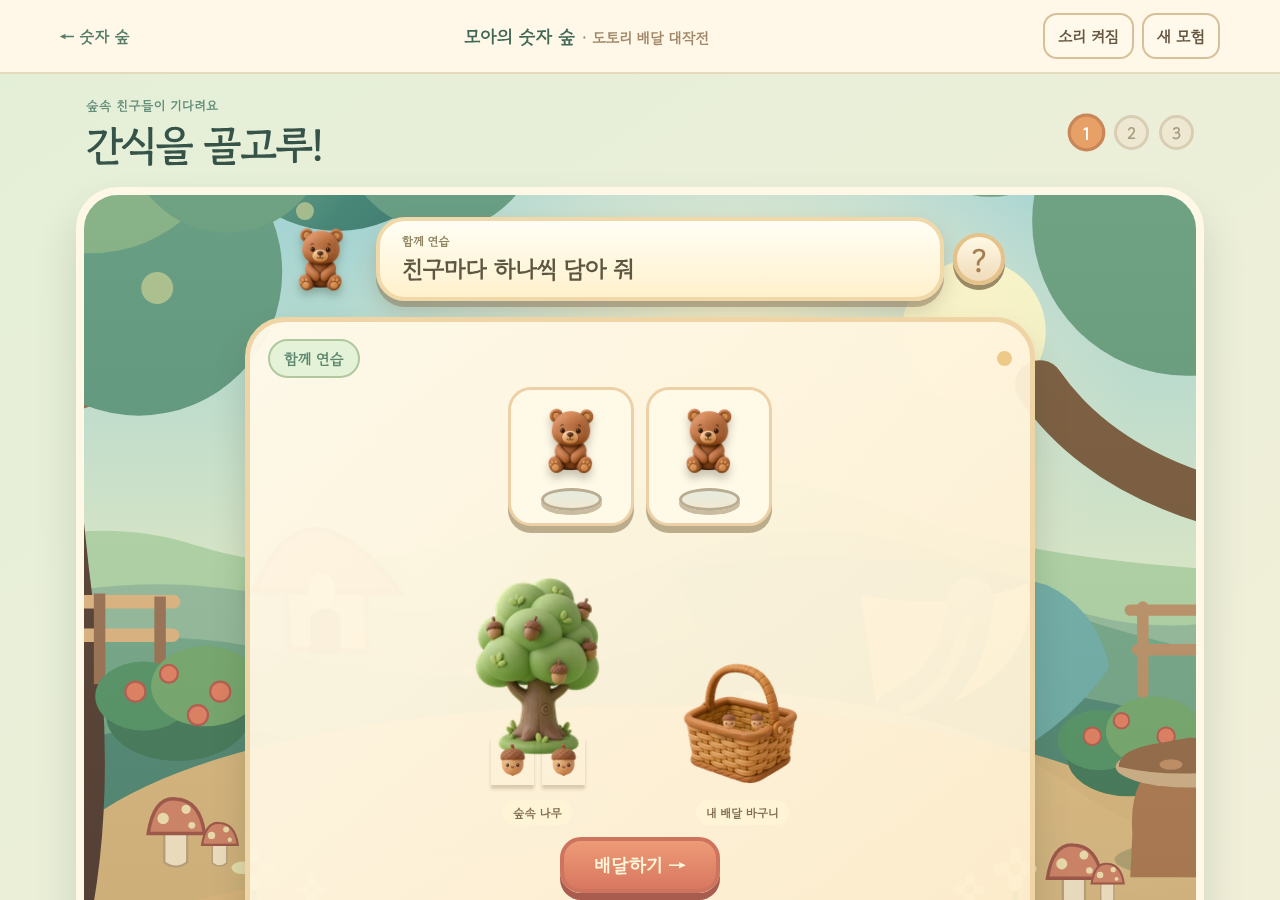
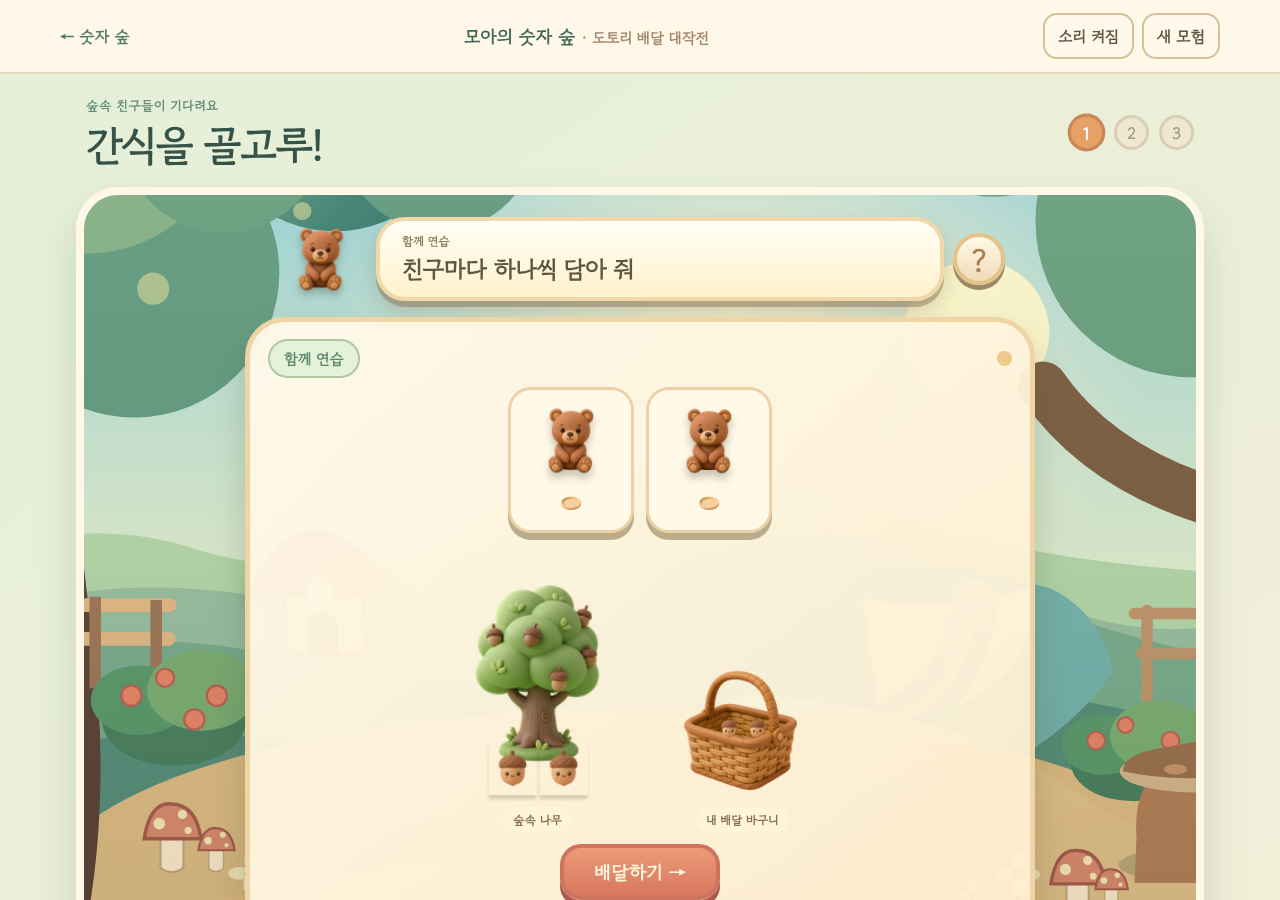
도토리 배달 대작전: 전체 동물 roster 확장 + 게임감 개선 (사용자 승인 후 2차)
1차 체크포인트(나무·도토리·바구니·곰) 승인 후 "나머지들 싹다 만들어 /
학습지 말고 게임처럼 느껴지게" 지시에 따른 추가 작업:

- characters/rabbit_*, fox_*, frog_*, bird_* (각 waiting/happy) 추가
  — 실제 mission.js 템플릿이 쓰는 5종 동물 전부 완료 (squirrel은 코드에서
  미사용이라 제외)
- objects/plate_empty.png — 기존 평면 CSS .dish를 대체
- mission.js: friend()를 모든 동물에 대해 PNG 사용하도록 단순화(로직 변경 없음)
- mission.css: 게임감 개선 — 클릭 시 눌림 피드백, 아이템 등장 팝인,
  가이드 곰/대기 친구 미세한 흔들림, 성공·챕터완료 카드 팝인, 챕터 완료
  축하 연출을 기존 평면 점선 원에서 글로우+꽃+색종이(confetti) 터짐으로
  교체. 상태/점수/타이머 로직 무변경, 기존 prefers-reduced-motion
  전역규칙이 새 애니메이션도 덮음.
- style-guide.md / asset-manifest.json / qa/test-results.md / previews/
  갱신 — 여전히 미완료인 항목(배경 재제작, 미구현 기능 소품, UI 아이콘,
  0~10 전체 수량 실측, 드래그 제스처)은 숨기지 않고 그대로 기록.

PC/태블릿/모바일 전 구간 재스크린샷, JS 에러 없음 확인. main 미병합,
공개 배포 없음.

Claude-Session: https://claude.ai/code/session_013RwCLG4nBVpXDLti5Q8fYw

diff --git a/math-garden/mission.css b/math-garden/mission.css
@@ -1,6 +1,6 @@
 @import url('https://fonts.googleapis.com/css2?family=Gowun+Dodum&display=swap');
 :root{--ink:#355349;--paper:#fff7df;--leaf:#5b9b79;--cream:#ffefc9;--orange:#e98e65;--brown:#926947;--line:#ead1a2}
-*{box-sizing:border-box}html{scroll-behavior:smooth}body{margin:0;background:linear-gradient(145deg,#e4efd8,#f5efd9);font-family:'Gowun Dodum','Pretendard',system-ui,sans-serif;color:var(--ink)}button,a{font:inherit}button{cursor:pointer;-webkit-tap-highlight-color:transparent;touch-action:manipulation}button:focus-visible,a:focus-visible{outline:4px solid #f9cd78;outline-offset:3px}.shell{min-height:100vh}.mast{min-height:74px;padding:12px max(17px,calc((100vw - 1160px)/2));background:#fff8e8;display:flex;align-items:center;justify-content:space-between;gap:14px;border-bottom:2px solid #e6dabd}.back{color:#557c69;text-decoration:none;font-weight:900;white-space:nowrap}.identity{font-size:18px;font-weight:1000;color:#416857}.identity span{font-size:15px;color:#a18667}.controls{display:flex;gap:8px}.controls button{border:2px solid #d8bf98;background:#fff9ec;color:#665640;padding:9px 13px;min-height:44px;border-radius:14px;font-weight:900}.main{max-width:1160px;margin:auto;padding:14px 16px 20px}.topline{display:flex;justify-content:space-between;align-items:center;gap:10px;padding:4px 10px 14px}.overline{font-size:13px;color:#638e79;font-weight:900;letter-spacing:.04em}.topline h1{font-size:clamp(28px,4.5vw,41px);line-height:1.2;letter-spacing:-.05em;margin:4px 0}.chapters{display:flex;gap:10px}.chapter-dot{width:35px;height:35px;border-radius:50%;background:#eee8d3;display:grid;place-items:center;color:#a79b80;font-weight:900;border:3px solid #d9ceb4}.chapter-dot.active{color:#fff;background:#e7a167;border-color:#ca8559;transform:scale(1.08)}.chapter-dot.completed{color:#fff;background:#7eb092;border-color:#609b7c}.stage{position:relative;isolation:isolate;overflow:hidden;min-height:625px;border-radius:42px;border:8px solid #fff8e7;box-shadow:0 11px 0 #bfcda9,0 25px 42px #395d4a30;background:#b7d6a5 url('./assets/forest-world.svg') center 52%/cover no-repeat}.scenery{position:absolute;inset:0;background:linear-gradient(#fff4cf14,#273e2620);pointer-events:none;z-index:0}.scenecontent{position:relative;z-index:1;padding:18px 18px 24px;max-width:1060px;margin:auto}.storybar{max-width:730px;margin:auto;display:flex;align-items:center;gap:9px}.story-character{flex:0 0 85px;height:92px;display:grid;place-items:center;filter:drop-shadow(0 5px 4px #3b4c3555)}.story-character svg,.story-character img{width:92px;height:92px;object-fit:contain}.story-cloud{flex:1;background:linear-gradient(#fffef5,#fff1cc);border:4px solid #f0d8a8;box-shadow:0 6px 0 #8a75587a,0 10px 20px #796b5247;border-radius:29px;padding:11px 22px;min-height:82px}.story-cloud small{display:block;font-size:12px;color:#8f825f;font-weight:800}.story-cloud p{font-size:clamp(17px,2.7vw,24px);font-weight:900;margin:2px 0 0;color:#5d5642;letter-spacing:-.03em}.look{width:52px;height:52px;border-radius:50%;border:4px solid #e4c28a;background:linear-gradient(#fff9e5,#f0dbb9);color:#a77e51;box-shadow:0 5px 0 #9b8a66;font-size:30px;font-weight:900}.play{max-width:940px;margin:12px auto 0;min-height:429px;display:grid;place-items:center}.btn{background:linear-gradient(#ed9b77,#d87760);border:4px solid #ce745e;box-shadow:0 7px 0 #a85c4d;color:#fff8dc;font-size:22px;font-weight:1000;border-radius:21px;padding:14px 27px;min-height:66px}.btn:active{transform:translateY(5px);box-shadow:0 2px 0 #a85c4d}.intro,.lesson,.quest,.success,.chapter-result{width:min(100%,790px);border-radius:40px;border:5px solid #efd5a6;background:linear-gradient(138deg,#fff9e9f7,#ffefcfed);box-shadow:0 11px 0 #9a926b,0 20px 32px #3e503438;text-align:center;padding:22px;min-height:374px;display:flex;flex-direction:column;align-items:center;justify-content:center;gap:14px}.intro-title{font-size:clamp(24px,4vw,34px);font-weight:1000}.intro p{margin:0 0 7px;color:#6d654e;font-size:18px}.intro-bag{display:flex;gap:12px;align-items:center;justify-content:center;width:205px;height:116px;border-bottom:35px solid #bf8c57;border-radius:0 0 75px 75px;box-shadow:0 12px 0 #8f6848;position:relative;padding:0 5px}.intro-bag .food{transform:scale(1.1)}.food{position:relative;display:inline-block;width:43px;height:48px;flex:0 0 43px;border-radius:49% 48% 44% 44%;background:radial-gradient(circle at 29% 28%,#f4c494,#c18a54 55%,#946239 96%);box-shadow:inset -5px -5px 0 #7a4c2830,0 5px 0 #7b5a3933;border:2px solid #aa784c}.food:before{content:'';position:absolute;top:-6px;left:3px;width:33px;height:17px;border-radius:54% 54% 27% 27%;background:repeating-linear-gradient(42deg,#715234 0 3px,#98724b 4px 7px);border:2px solid #715234}.food:after{content:'';position:absolute;top:-13px;left:20px;width:5px;height:10px;border-radius:6px;background:#715234}.food.berry{border-radius:50%;background:radial-gradient(circle at 29% 28%,#ffc6a8,#ef8770 55%,#c45b59);border-color:#c16865}.food.berry:before{width:16px;height:9px;left:27px;top:-7px;border:0;border-radius:100% 0;background:#7ba87a;transform:rotate(-17deg)}.food.berry:after{display:none}.food.mini{width:24px;height:27px;flex-basis:24px;box-shadow:0 2px 0 #7b5a392b}.food.mini:before{width:19px;height:10px;left:0;top:-4px}.food.mini:after{width:3px;height:6px;top:-8px;left:10px}.food.acorn{background:url('./assets/mission-v4/objects/acorn_single.png') center/contain no-repeat;border:0;box-shadow:0 4px 3px #5c431c38;border-radius:0}.food.acorn:before,.food.acorn:after{content:none}.forest-friend{width:95px;height:104px;filter:drop-shadow(0 5px 3px #5b554046);overflow:visible}.forest-friend.bear-photo{object-fit:contain;filter:drop-shadow(0 6px 4px #5b554055)}.demo-friends,.friends-line{display:flex;justify-content:center;align-items:end;flex-wrap:wrap;gap:12px}.demo-pair,.hungry-friend{min-width:105px;min-height:135px;padding:3px 10px 12px;display:flex;flex-direction:column;align-items:center;justify-content:flex-end;background:#fffae8;border-radius:23px;border:3px solid #edd0a6;box-shadow:0 7px 0 #bbad8c}.demo-pair .forest-friend,.hungry-friend .forest-friend{width:100px;height:95px}.match-slot{display:grid;place-items:center;min-width:47px;min-height:47px;background:#fff9e6;border-radius:15px;border:3px dashed #d2bea0}.match-slot.occupied{border-style:solid;background:#ddefd9;border-color:#85b394}.dish{height:23px;width:61px;background:linear-gradient(#e6ecde,#f1e8d2);border:3px solid #b9ac91;border-radius:55%;box-shadow:0 4px 0 #cabca0}.visual-equation{font-size:20px;font-weight:800;color:#826950}.lesson-foot{display:flex;align-items:center;gap:15px;flex-wrap:wrap;justify-content:center}.observation{background:#eef4e6;border:2px solid #b5d0b2;border-radius:100px;padding:10px 15px;font-size:14px;color:#558467}.one-to-one{display:flex;flex-direction:column;align-items:center;gap:7px}.matching-row{display:flex;gap:28px}.matching-row .match-slot{min-width:32px;min-height:32px}.lesson-lead{display:grid;gap:12px;justify-content:center}.compare-pair{display:flex;align-items:center;justify-content:center;gap:12px}.match-instruction{font-size:45px;color:#bc9b72}.quantity.pile{display:flex;flex-wrap:wrap;justify-content:center;gap:8px;max-width:190px;min-width:100px;padding:12px;background:#fffcf0;border:4px solid #edce98;border-radius:22px}.quest{padding:17px 18px;justify-content:space-between;gap:9px;max-width:830px}.quest-head{display:flex;justify-content:space-between;align-items:center;width:100%;gap:12px}.quest-chip{background:#e4f3d7;padding:7px 14px;border:2px solid #b0c7a0;border-radius:30px;font-size:15px;font-weight:900;color:#5d876f}.quest-pips{display:flex;gap:5px}.quest-pips i{display:block;width:15px;height:15px;border-radius:50%;background:#edca87}.quest-board{display:grid;place-items:center;gap:13px;min-height:215px;width:100%}.delivery-line{display:flex;justify-content:center;gap:25px;align-items:end;width:100%;flex-wrap:wrap}.supply,.delivery{position:relative;display:grid;justify-items:center;align-content:end;gap:4px;min-width:180px;min-height:140px}.supply-items{position:relative;width:100%;max-width:190px;aspect-ratio:149/210;margin:0 auto;padding:0;background:url('./assets/mission-v4/objects/acorn_tree.png') center top/contain no-repeat;border:0;border-radius:0}.supply-items .tree-pile{position:absolute;left:4%;right:4%;bottom:2%;display:flex;flex-wrap:wrap;justify-content:center;align-content:flex-end;gap:2px;max-height:40%}.interaction{background:transparent;border:0;min-width:49px;min-height:49px;display:grid;place-items:center;padding:3px;border-radius:14px}.interaction:focus-visible{outline:4px solid #ffce74}.interaction .food{transition:transform .18s}.interaction:hover .food{transform:translateY(-3px)}.supply-caption{font-size:12px;font-weight:800;color:#816d52;background:#fff4d6;padding:4px 10px;border-radius:20px;margin:3px}.packed-food{position:relative;width:100%;max-width:210px;aspect-ratio:199/178;margin:0 auto;padding:0;background:url('./assets/mission-v4/objects/basket_empty.png') center bottom/contain no-repeat;border:0;border-radius:0;box-shadow:none}.packed-food .basket-pile{position:absolute;left:25%;width:50%;top:45%;height:20%;display:flex;flex-wrap:wrap;justify-content:center;align-content:flex-end;gap:0}.packed-food .interaction{min-width:28px;min-height:32px;padding:2px}.basket-body{display:none}.quest-actions{display:flex;justify-content:center}.quest-actions .btn{min-height:56px;padding:9px 30px;font-size:19px}.feedback-slot{min-height:23px;width:100%;font-size:15px}.feedback-error{background:#fff2dd;color:#91664a;border:2px solid #f2d4a2;border-radius:20px;padding:9px;font-weight:900;max-width:430px;margin:auto}.scaffold{display:grid;place-items:center;gap:9px;background:#edf5df;border:3px solid #bad4ae;border-radius:21px;padding:10px;margin:5px auto;max-width:550px}.scaffold p{margin:2px;font-size:14px}.scaffold .one-to-one{max-height:120px;overflow:auto}.help-model{display:flex;align-items:center;justify-content:center;flex-wrap:wrap;gap:10px}.help-model span{font-size:13px}.match-row{display:flex;gap:5px}.compare-path{display:flex;justify-content:center;gap:18px;align-items:center;flex-wrap:nowrap;width:100%}.compare-path .interaction{width:46%;min-height:150px;border:4px solid #c7a273;background:linear-gradient(#fff7d8,#ead4ae);box-shadow:0 8px 0 #ad9472;border-radius:27px;padding:16px}.path-stand{display:grid;place-items:center;min-width:100%;gap:7px}.fruit-pile{display:flex;flex-wrap:wrap;justify-content:center;gap:9px;max-width:250px;min-height:75px;align-items:center}.path-arch{height:10px;width:85%;background:#b8c79e;border-radius:55%}.make-layout{width:100%;display:grid;justify-items:center;gap:9px}.make-board{background:#fff7e0;padding:12px;border:5px solid #caa978;border-radius:24px;box-shadow:0 7px 0 #a38966;display:flex;flex-wrap:wrap;gap:7px;max-width:510px;justify-content:center}.make-board .match-slot{width:58px;height:58px}.quest .make-layout .delivery-line{gap:18px}.quest .make-layout .supply,.quest .make-layout .delivery{min-height:122px}.success,.chapter-result{min-height:364px}.success h2,.chapter-result h2{font-size:clamp(23px,4vw,33px);margin:0}.success p,.chapter-result p{font-size:17px;margin:0;color:#7c745e}.success-line{display:flex;flex-wrap:wrap;gap:12px;justify-content:center}.served{display:grid;place-items:center;padding:7px;border:2px solid #e3cfac;background:#fff9e8;border-radius:23px}.served .forest-friend{width:75px;height:85px;object-fit:contain}.open-gate{width:190px;height:150px;border:17px solid #8eaf8b;border-bottom:0;border-radius:100px 100px 0 0;background:linear-gradient(#eef7d7,#a7cfb9);box-shadow:0 8px 0 #759572}.bloom{width:105px;height:105px;display:grid;place-items:center;position:relative}.bloom:before{content:'';width:88px;height:88px;border-radius:50%;background:#f4c478;border:17px dotted #eaa397;box-shadow:0 0 0 9px #f6e1ae}.result-actions{display:flex;gap:12px;flex-wrap:wrap;justify-content:center}.result-actions button{border:3px solid #d09f72;background:#ffefcf;color:#72614c;font-size:18px;font-weight:900;border-radius:20px;min-height:62px;padding:13px 19px}.lower{display:flex;justify-content:space-between;align-items:center;gap:12px;padding:17px 10px}.lower p{margin:0;font-weight:900;font-size:16px}.lower-actions{display:flex;gap:8px}.lower-actions button{background:#fff8e8;border:2px solid #cbb793;color:#6c614a;border-radius:15px;padding:9px 12px;min-height:47px;font-size:14px}.small-info{text-align:center;font-size:12px;color:#727a64;padding:0 15px 24px}footer{display:flex;justify-content:center;gap:18px;align-items:center;min-height:70px;color:#718471;font-size:12px;border-top:1px solid #d5e2ce}footer a{color:#5a8c74}
+*{box-sizing:border-box}html{scroll-behavior:smooth}body{margin:0;background:linear-gradient(145deg,#e4efd8,#f5efd9);font-family:'Gowun Dodum','Pretendard',system-ui,sans-serif;color:var(--ink)}button,a{font:inherit}button{cursor:pointer;-webkit-tap-highlight-color:transparent;touch-action:manipulation}button:focus-visible,a:focus-visible{outline:4px solid #f9cd78;outline-offset:3px}.shell{min-height:100vh}.mast{min-height:74px;padding:12px max(17px,calc((100vw - 1160px)/2));background:#fff8e8;display:flex;align-items:center;justify-content:space-between;gap:14px;border-bottom:2px solid #e6dabd}.back{color:#557c69;text-decoration:none;font-weight:900;white-space:nowrap}.identity{font-size:18px;font-weight:1000;color:#416857}.identity span{font-size:15px;color:#a18667}.controls{display:flex;gap:8px}.controls button{border:2px solid #d8bf98;background:#fff9ec;color:#665640;padding:9px 13px;min-height:44px;border-radius:14px;font-weight:900}.main{max-width:1160px;margin:auto;padding:14px 16px 20px}.topline{display:flex;justify-content:space-between;align-items:center;gap:10px;padding:4px 10px 14px}.overline{font-size:13px;color:#638e79;font-weight:900;letter-spacing:.04em}.topline h1{font-size:clamp(28px,4.5vw,41px);line-height:1.2;letter-spacing:-.05em;margin:4px 0}.chapters{display:flex;gap:10px}.chapter-dot{width:35px;height:35px;border-radius:50%;background:#eee8d3;display:grid;place-items:center;color:#a79b80;font-weight:900;border:3px solid #d9ceb4}.chapter-dot.active{color:#fff;background:#e7a167;border-color:#ca8559;transform:scale(1.08)}.chapter-dot.completed{color:#fff;background:#7eb092;border-color:#609b7c}.stage{position:relative;isolation:isolate;overflow:hidden;min-height:625px;border-radius:42px;border:8px solid #fff8e7;box-shadow:0 11px 0 #bfcda9,0 25px 42px #395d4a30;background:#b7d6a5 url('./assets/forest-world.svg') center 52%/cover no-repeat}.scenery{position:absolute;inset:0;background:linear-gradient(#fff4cf14,#273e2620);pointer-events:none;z-index:0}.scenecontent{position:relative;z-index:1;padding:18px 18px 24px;max-width:1060px;margin:auto}.storybar{max-width:730px;margin:auto;display:flex;align-items:center;gap:9px}.story-character{flex:0 0 85px;height:92px;display:grid;place-items:center;filter:drop-shadow(0 5px 4px #3b4c3555)}.story-character{animation:idle-breathe 2.6s ease-in-out infinite}.story-character svg,.story-character img{width:92px;height:92px;object-fit:contain}.story-cloud{flex:1;background:linear-gradient(#fffef5,#fff1cc);border:4px solid #f0d8a8;box-shadow:0 6px 0 #8a75587a,0 10px 20px #796b5247;border-radius:29px;padding:11px 22px;min-height:82px}.story-cloud small{display:block;font-size:12px;color:#8f825f;font-weight:800}.story-cloud p{font-size:clamp(17px,2.7vw,24px);font-weight:900;margin:2px 0 0;color:#5d5642;letter-spacing:-.03em}.look{width:52px;height:52px;border-radius:50%;border:4px solid #e4c28a;background:linear-gradient(#fff9e5,#f0dbb9);color:#a77e51;box-shadow:0 5px 0 #9b8a66;font-size:30px;font-weight:900}.play{max-width:940px;margin:12px auto 0;min-height:429px;display:grid;place-items:center}.btn{background:linear-gradient(#ed9b77,#d87760);border:4px solid #ce745e;box-shadow:0 7px 0 #a85c4d;color:#fff8dc;font-size:22px;font-weight:1000;border-radius:21px;padding:14px 27px;min-height:66px}.btn:active{transform:translateY(5px);box-shadow:0 2px 0 #a85c4d}.intro,.lesson,.quest,.success,.chapter-result{width:min(100%,790px);border-radius:40px;border:5px solid #efd5a6;background:linear-gradient(138deg,#fff9e9f7,#ffefcfed);box-shadow:0 11px 0 #9a926b,0 20px 32px #3e503438;text-align:center;padding:22px;min-height:374px;display:flex;flex-direction:column;align-items:center;justify-content:center;gap:14px}.intro-title{font-size:clamp(24px,4vw,34px);font-weight:1000}.intro p{margin:0 0 7px;color:#6d654e;font-size:18px}.intro-bag{display:flex;gap:12px;align-items:center;justify-content:center;width:205px;height:116px;border-bottom:35px solid #bf8c57;border-radius:0 0 75px 75px;box-shadow:0 12px 0 #8f6848;position:relative;padding:0 5px}.intro-bag .food{transform:scale(1.1)}.food{position:relative;display:inline-block;width:43px;height:48px;flex:0 0 43px;border-radius:49% 48% 44% 44%;background:radial-gradient(circle at 29% 28%,#f4c494,#c18a54 55%,#946239 96%);box-shadow:inset -5px -5px 0 #7a4c2830,0 5px 0 #7b5a3933;border:2px solid #aa784c}.food:before{content:'';position:absolute;top:-6px;left:3px;width:33px;height:17px;border-radius:54% 54% 27% 27%;background:repeating-linear-gradient(42deg,#715234 0 3px,#98724b 4px 7px);border:2px solid #715234}.food:after{content:'';position:absolute;top:-13px;left:20px;width:5px;height:10px;border-radius:6px;background:#715234}.food.berry{border-radius:50%;background:radial-gradient(circle at 29% 28%,#ffc6a8,#ef8770 55%,#c45b59);border-color:#c16865}.food.berry:before{width:16px;height:9px;left:27px;top:-7px;border:0;border-radius:100% 0;background:#7ba87a;transform:rotate(-17deg)}.food.berry:after{display:none}.food.mini{width:24px;height:27px;flex-basis:24px;box-shadow:0 2px 0 #7b5a392b}.food.mini:before{width:19px;height:10px;left:0;top:-4px}.food.mini:after{width:3px;height:6px;top:-8px;left:10px}.food.acorn{background:url('./assets/mission-v4/objects/acorn_single.png') center/contain no-repeat;border:0;box-shadow:0 4px 3px #5c431c38;border-radius:0}.food.acorn:before,.food.acorn:after{content:none}.forest-friend{width:95px;height:104px;filter:drop-shadow(0 5px 3px #5b554046);overflow:visible}.forest-friend.clay-photo{object-fit:contain;filter:drop-shadow(0 6px 4px #5b554055)}.demo-friends,.friends-line{display:flex;justify-content:center;align-items:end;flex-wrap:wrap;gap:12px}.demo-pair,.hungry-friend{min-width:105px;min-height:135px;padding:3px 10px 12px;display:flex;flex-direction:column;align-items:center;justify-content:flex-end;background:#fffae8;border-radius:23px;border:3px solid #edd0a6;box-shadow:0 7px 0 #bbad8c}.hungry-friend .forest-friend{animation:idle-bob 2.2s ease-in-out infinite}.hungry-friend:nth-child(2) .forest-friend{animation-delay:.3s}.hungry-friend:nth-child(3) .forest-friend{animation-delay:.6s}.hungry-friend:nth-child(4) .forest-friend{animation-delay:.9s}.demo-pair .forest-friend,.hungry-friend .forest-friend{width:100px;height:95px}.match-slot{display:grid;place-items:center;min-width:47px;min-height:47px;background:#fff9e6;border-radius:15px;border:3px dashed #d2bea0}.match-slot.occupied{border-style:solid;background:#ddefd9;border-color:#85b394}.dish{height:30px;width:61px;background:url('./assets/mission-v4/objects/plate_empty.png') center/contain no-repeat;border:0;border-radius:0;box-shadow:none}.visual-equation{font-size:20px;font-weight:800;color:#826950}.lesson-foot{display:flex;align-items:center;gap:15px;flex-wrap:wrap;justify-content:center}.observation{background:#eef4e6;border:2px solid #b5d0b2;border-radius:100px;padding:10px 15px;font-size:14px;color:#558467}.one-to-one{display:flex;flex-direction:column;align-items:center;gap:7px}.matching-row{display:flex;gap:28px}.matching-row .match-slot{min-width:32px;min-height:32px}.lesson-lead{display:grid;gap:12px;justify-content:center}.compare-pair{display:flex;align-items:center;justify-content:center;gap:12px}.match-instruction{font-size:45px;color:#bc9b72}.quantity.pile{display:flex;flex-wrap:wrap;justify-content:center;gap:8px;max-width:190px;min-width:100px;padding:12px;background:#fffcf0;border:4px solid #edce98;border-radius:22px}.quest{padding:17px 18px;justify-content:space-between;gap:9px;max-width:830px}.quest-head{display:flex;justify-content:space-between;align-items:center;width:100%;gap:12px}.quest-chip{background:#e4f3d7;padding:7px 14px;border:2px solid #b0c7a0;border-radius:30px;font-size:15px;font-weight:900;color:#5d876f}.quest-pips{display:flex;gap:5px}.quest-pips i{display:block;width:15px;height:15px;border-radius:50%;background:#edca87}.quest-board{display:grid;place-items:center;gap:13px;min-height:215px;width:100%}.delivery-line{display:flex;justify-content:center;gap:25px;align-items:end;width:100%;flex-wrap:wrap}.supply,.delivery{position:relative;display:grid;justify-items:center;align-content:end;gap:4px;min-width:180px;min-height:140px}.supply-items{position:relative;width:100%;max-width:190px;aspect-ratio:149/210;margin:0 auto;padding:0;background:url('./assets/mission-v4/objects/acorn_tree.png') center top/contain no-repeat;border:0;border-radius:0}.supply-items .tree-pile{position:absolute;left:4%;right:4%;bottom:2%;display:flex;flex-wrap:wrap;justify-content:center;align-content:flex-end;gap:2px;max-height:40%}.interaction{background:transparent;border:0;min-width:49px;min-height:49px;display:grid;place-items:center;padding:3px;border-radius:14px}.interaction:focus-visible{outline:4px solid #ffce74}.interaction .food{transition:transform .18s}.interaction:hover .food{transform:translateY(-3px)}.interaction{transition:transform .12s}.interaction:active{transform:scale(.86)}.tree-pile .interaction,.basket-pile .interaction{animation:pop-in .32s cubic-bezier(.34,1.56,.64,1) both}.supply-caption{font-size:12px;font-weight:800;color:#816d52;background:#fff4d6;padding:4px 10px;border-radius:20px;margin:3px}.packed-food{position:relative;width:100%;max-width:210px;aspect-ratio:199/178;margin:0 auto;padding:0;background:url('./assets/mission-v4/objects/basket_empty.png') center bottom/contain no-repeat;border:0;border-radius:0;box-shadow:none}.packed-food .basket-pile{position:absolute;left:25%;width:50%;top:45%;height:20%;display:flex;flex-wrap:wrap;justify-content:center;align-content:flex-end;gap:0}.packed-food .interaction{min-width:28px;min-height:32px;padding:2px}.basket-body{display:none}.quest-actions{display:flex;justify-content:center}.quest-actions .btn{min-height:56px;padding:9px 30px;font-size:19px}.feedback-slot{min-height:23px;width:100%;font-size:15px}.feedback-error{background:#fff2dd;color:#91664a;border:2px solid #f2d4a2;border-radius:20px;padding:9px;font-weight:900;max-width:430px;margin:auto}.scaffold{display:grid;place-items:center;gap:9px;background:#edf5df;border:3px solid #bad4ae;border-radius:21px;padding:10px;margin:5px auto;max-width:550px}.scaffold p{margin:2px;font-size:14px}.scaffold .one-to-one{max-height:120px;overflow:auto}.help-model{display:flex;align-items:center;justify-content:center;flex-wrap:wrap;gap:10px}.help-model span{font-size:13px}.match-row{display:flex;gap:5px}.compare-path{display:flex;justify-content:center;gap:18px;align-items:center;flex-wrap:nowrap;width:100%}.compare-path .interaction{width:46%;min-height:150px;border:4px solid #c7a273;background:linear-gradient(#fff7d8,#ead4ae);box-shadow:0 8px 0 #ad9472;border-radius:27px;padding:16px}.path-stand{display:grid;place-items:center;min-width:100%;gap:7px}.fruit-pile{display:flex;flex-wrap:wrap;justify-content:center;gap:9px;max-width:250px;min-height:75px;align-items:center}.path-arch{height:10px;width:85%;background:#b8c79e;border-radius:55%}.make-layout{width:100%;display:grid;justify-items:center;gap:9px}.make-board{background:#fff7e0;padding:12px;border:5px solid #caa978;border-radius:24px;box-shadow:0 7px 0 #a38966;display:flex;flex-wrap:wrap;gap:7px;max-width:510px;justify-content:center}.make-board .match-slot{width:58px;height:58px}.quest .make-layout .delivery-line{gap:18px}.quest .make-layout .supply,.quest .make-layout .delivery{min-height:122px}.success,.chapter-result{min-height:364px}.success,.chapter-result{animation:card-pop .36s cubic-bezier(.34,1.56,.64,1) both}.success h2,.chapter-result h2{font-size:clamp(23px,4vw,33px);margin:0}.success p,.chapter-result p{font-size:17px;margin:0;color:#7c745e}.success-line{display:flex;flex-wrap:wrap;gap:12px;justify-content:center}.served{display:grid;place-items:center;padding:7px;border:2px solid #e3cfac;background:#fff9e8;border-radius:23px}.served .forest-friend{width:75px;height:85px;object-fit:contain}.open-gate{width:190px;height:150px;border:17px solid #8eaf8b;border-bottom:0;border-radius:100px 100px 0 0;background:linear-gradient(#eef7d7,#a7cfb9);box-shadow:0 8px 0 #759572}.bloom{width:105px;height:105px;display:grid;place-items:center;position:relative;animation:bloom-pop .5s cubic-bezier(.34,1.56,.64,1) both}.bloom:before{content:'';grid-area:1/1;width:88px;height:88px;border-radius:50%;background:radial-gradient(circle at 35% 30%,#ffe3a8,#f4c478 60%,#eaa865);border:10px solid #fff3d6;box-shadow:0 6px 0 #d89a5e,0 0 0 8px #f6e1ae55}.bloom:after{content:'🌼';grid-area:1/1;font-size:40px;line-height:1;filter:drop-shadow(0 3px 2px #8a6a3340);z-index:1}.confetti{position:absolute;inset:-18px;pointer-events:none}.confetti i{position:absolute;width:9px;height:9px;border-radius:3px;top:50%;left:50%;margin:-4px 0 0 -4px;animation:confetti-burst .8s ease-out both}.confetti i:nth-child(1){background:#f2a7a0;animation-delay:.02s;transform:rotate(10deg)}.confetti i:nth-child(2){background:#9bd2a6;animation-delay:.08s}.confetti i:nth-child(3){background:#f7cf72;animation-delay:.04s}.confetti i:nth-child(4){background:#8fb7e6;animation-delay:.12s}.confetti i:nth-child(5){background:#e7a9e0;animation-delay:.06s}.confetti i:nth-child(6){background:#f7cf72;animation-delay:.14s}.confetti i:nth-child(7){background:#9bd2a6;animation-delay:.1s}.confetti i:nth-child(8){background:#f2a7a0;animation-delay:.16s}.result-actions{display:flex;gap:12px;flex-wrap:wrap;justify-content:center}.result-actions button{border:3px solid #d09f72;background:#ffefcf;color:#72614c;font-size:18px;font-weight:900;border-radius:20px;min-height:62px;padding:13px 19px}.lower{display:flex;justify-content:space-between;align-items:center;gap:12px;padding:17px 10px}.lower p{margin:0;font-weight:900;font-size:16px}.lower-actions{display:flex;gap:8px}.lower-actions button{background:#fff8e8;border:2px solid #cbb793;color:#6c614a;border-radius:15px;padding:9px 12px;min-height:47px;font-size:14px}.small-info{text-align:center;font-size:12px;color:#727a64;padding:0 15px 24px}footer{display:flex;justify-content:center;gap:18px;align-items:center;min-height:70px;color:#718471;font-size:12px;border-top:1px solid #d5e2ce}footer a{color:#5a8c74}
 @media(max-width:650px){
 .mast{padding:10px 12px;min-height:64px}.back{font-size:13px}.identity{font-size:14px}.identity span{display:none}.controls{gap:5px}.controls button{font-size:11px;min-height:44px;padding:7px}
 .main{padding:10px 7px}.topline{padding:6px 7px 10px}.topline h1{font-size:27px}.overline{font-size:11px}.chapter-dot{width:31px;height:31px;font-size:12px}.chapters{gap:5px}
@@ -19,7 +19,7 @@
 .guided-preview p{font-size:13px;margin:2px}.guided-preview .match-row{gap:5px}.guided-preview .matching-row .match-slot{min-width:27px;min-height:27px}.guided-preview .one-to-one{flex-direction:row;gap:5px}.guided-preview .matching-row{gap:6px}
 .lesson .demo-pair .match-slot.occupied{animation:delivery-arrive .75s ease-out both}.lesson .demo-pair:nth-child(2) .match-slot.occupied{animation-delay:.45s}.lesson .demo-pair:nth-child(3) .match-slot.occupied{animation-delay:.9s}
 .success .served{animation:served-jump .6s ease-out both}.success .served:nth-child(2){animation-delay:.14s}.success .served:nth-child(3){animation-delay:.28s}.success .served:nth-child(4){animation-delay:.42s}
-@keyframes delivery-arrive{from{opacity:0;transform:translateY(-36px) scale(.55)}to{opacity:1;transform:translateY(0) scale(1)}}
+@keyframes delivery-arrive{from{opacity:0;transform:translateY(-36px) scale(.55)}to{opacity:1;transform:translateY(0) scale(1)}}@keyframes pop-in{0%{opacity:0;transform:scale(.4)}70%{transform:scale(1.12)}100%{opacity:1;transform:scale(1)}}@keyframes idle-breathe{0%,100%{transform:scale(1)}50%{transform:scale(1.045)}}@keyframes idle-bob{0%,100%{transform:translateY(0)}50%{transform:translateY(-4px)}}@keyframes bloom-pop{0%{opacity:0;transform:scale(.3) rotate(-8deg)}70%{transform:scale(1.1) rotate(3deg)}100%{opacity:1;transform:scale(1) rotate(0)}}@keyframes card-pop{0%{opacity:0;transform:scale(.9) translateY(10px)}100%{opacity:1;transform:scale(1) translateY(0)}}@keyframes confetti-burst{0%{opacity:1;transform:translate(0,0) rotate(0) scale(1)}100%{opacity:0;transform:translate(var(--cx,40px),var(--cy,-50px)) rotate(200deg) scale(.4)}}.confetti i:nth-child(1){--cx:-46px;--cy:-54px}.confetti i:nth-child(2){--cx:40px;--cy:-60px}.confetti i:nth-child(3){--cx:-62px;--cy:10px}.confetti i:nth-child(4){--cx:58px;--cy:4px}.confetti i:nth-child(5){--cx:-30px;--cy:52px}.confetti i:nth-child(6){--cx:34px;--cy:56px}.confetti i:nth-child(7){--cx:-10px;--cy:-70px}.confetti i:nth-child(8){--cx:14px;--cy:64px}
 @keyframes served-jump{0%{transform:translateY(10px);opacity:.4}60%{transform:translateY(-9px);opacity:1}100%{transform:translateY(0)}}
 @media(max-width:650px){.lower{flex-direction:column;align-items:stretch;gap:9px}.lower p{width:100%;min-height:22px;line-height:1.5}.lower-actions{justify-content:flex-end;width:100%}.lower-actions button{white-space:nowrap;min-height:43px;padding:7px 11px;font-size:12px}.guided-preview{max-width:100%;padding:6px}.guided-preview p{font-size:11px}}
-@media(prefers-reduced-motion:reduce){.lesson .demo-pair .match-slot.occupied,.success .served{animation:none!important}}
+@media(prefers-reduced-motion:reduce){.lesson .demo-pair .match-slot.occupied,.success .served,.tree-pile .interaction,.basket-pile .interaction,.story-character,.hungry-friend .forest-friend,.bloom,.confetti i,.success,.chapter-result{animation:none!important}}

diff --git a/math-garden/mission.js b/math-garden/mission.js
@@ -17,7 +17,7 @@ const templates={
 const state={concept:0,step:0,selected:0,attempts:0,hints:0,flagged:false,sound:true,locked:false,view:'intro',results:[],timer:0,review:null};
 const esc=s=>String(s).replace(/[&<>"]/g,c=>({'&':'&amp;','<':'&lt;','>':'&gt;','"':'&quot;','"':'&quot;'}[c]));
 const unit=(type='acorn',small=false)=>'<span class="food '+(type==='berry'?'berry':'acorn')+' '+(small?'mini':'')+'" aria-hidden="true"></span>';
-const friend=(name,i,happy)=>{if(name==='bear')return '<img class="forest-friend bear-photo" src="./assets/mission-v4/characters/bear_'+(happy?'happy':'waiting')+'.png" alt="">';return '<svg class="forest-friend" viewBox="'+(150*['rabbit','bear','fox','frog','bird'].indexOf(name))+' 0 150 180" aria-hidden="true"><use href="./assets/woodland-friends.svg#'+name+'"/></svg>'};
+const friend=(name,i,happy)=>'<img class="forest-friend clay-photo" src="./assets/mission-v4/characters/'+name+'_'+(happy?'happy':'waiting')+'.png" alt="">';
 const dot=(filled,type)=>'<span class="match-slot '+(filled?'occupied':'empty')+'">'+(filled?unit(type,true):'')+'</span>';
 const current=()=>templates[CONCEPTS[state.concept].key][Math.min(state.step,6)];
 const practice=()=>state.step===5||state.step===6;
@@ -111,7 +111,7 @@ function chapterEnd(){
  const heading=result.criteriaMet?'혼자 해결한 장면이 늘었어!':'이 부분은 조금 더 연습할 수 있어';
  say(CONCEPTS[state.concept].kicker,'숲길의 작은 목표를 마쳤어');
  const pct=result.attempted?Math.round(100*result.independent/result.attempted):0;
- scene('<div class="chapter-result"><div class="bloom" aria-hidden="true"></div><h2>'+heading+'</h2><p>도움 없이 해결한 새 문제 '+result.independent+'개 · 새로운 상황 '+(result.transfer?'혼자 해결':'추가 연습 필요')+'</p><small>기록은 놀이 중 반응만 나타내며 수학 능력의 확정적 판정이 아니에요.</small><div class="result-actions">'+stepAction('repeat','이 숲길 다시 놀기','현재 개념을 다시 연습')+stepAction('next-chapter',state.concept===2?'모험 처음으로':'다음 숲길로 →','다음 모험으로')+'</div></div>');
+ scene('<div class="chapter-result"><div class="bloom" aria-hidden="true"><div class="confetti"><i></i><i></i><i></i><i></i><i></i><i></i><i></i><i></i></div></div><h2>'+heading+'</h2><p>도움 없이 해결한 새 문제 '+result.independent+'개 · 새로운 상황 '+(result.transfer?'혼자 해결':'추가 연습 필요')+'</p><small>기록은 놀이 중 반응만 나타내며 수학 능력의 확정적 판정이 아니에요.</small><div class="result-actions">'+stepAction('repeat','이 숲길 다시 놀기','현재 개념을 다시 연습')+stepAction('next-chapter',state.concept===2?'모험 처음으로':'다음 숲길로 →','다음 모험으로')+'</div></div>');
 }
 function handle(act,el){
  if(act==='start'){resetConcept(0);return}

diff --git a/math-garden/assets/mission-v4/qa/test-results.md b/math-garden/assets/mission-v4/qa/test-results.md
@@ -6,8 +6,8 @@
 
 | 항목 | 결과 | 비고 |
 |---|---|---|
-| 글자 가려도 나무·바구니·도토리·접시 구별 가능 | **부분 통과** | 나무·바구니·도토리는 통과(스크린샷 확인). **접시는 이번 범위 밖 — 아직 기존 평면 CSS 모양 그대로.** |
-| 캐릭터가 승인 레퍼런스와 동일 시리즈로 인식됨 | **곰만 통과** | 곰은 지정된 클레이 스타일로 교체. **토끼/여우/개구리/새는 아직 이전 SVG 그대로라 곰과 그림체가 서로 다르다** — 2차 확장에서 같은 스타일로 맞출 예정. |
+| 글자 가려도 나무·바구니·도토리·접시 구별 가능 | **부분 통과** | 2차 업데이트: 나무·바구니·도토리·접시 전부 통과(스크린샷 확인). |
+| 캐릭터가 승인 레퍼런스와 동일 시리즈로 인식됨 | **통과(2차 업데이트)** | 실제 코드가 쓰는 5종(곰·토끼·여우·개구리·새) 전부 같은 클레이 스타일로 교체 완료, PC에서 각각 스크린샷 확인(previews/after_fox_friend.png, after_bird_friend.png). |
 | 배경과 전경의 그림체·광원·시점 일치 | **미통과(알려진 차이)** | 숲 배경(`forest-world.svg`)은 평면 일러스트 벡터, 새 오브젝트(나무/바구니/곰)는 글로시 3D 클레이 렌더로 **기법이 다르다.** 전체 색감(따뜻한 갈색/초록 계열)은 부딪히지 않지만 "그림체 일치"를 엄밀히 통과했다고는 할 수 없다. 배경도 같은 스타일로 다시 만들지, 현재처럼 배경은 유지하고 오브젝트만 입체로 둘지 사용자 결정 필요. |
 | 나무→바구니→접시 이동 경로 자연스러움 | **미구현** | 클릭 즉시 상태만 바뀌는 기존 방식 그대로이며, 이번에 이동 애니메이션을 추가하지 않았다. |
 | 바구니 도토리 수 0~10 정확히 셀 수 있음 | **부분 검증** | 현재 실제 콘텐츠의 최대 수량인 4개까지 PC에서 육안 확인(겹침 없이 구별됨). **5~10개 구간은 실제 콘텐츠에 없어서 테스트하지 못했고, 레이아웃이 그 수량에서도 깨지지 않는지 보장하지 못한다.** |
@@ -25,3 +25,12 @@
 ## 요약
 
 이번 체크포인트는 작업지시서가 1차로 요구한 "나무·도토리·바구니·곰" 네 가지를 중심으로 통과했지만, **접시·다른 동물·배경 통일·0~10 전체 수량·이동 애니메이션·사이트 전체 회귀 검사는 아직 완료되지 않았다.** 이 상태를 "완료"라고 보고하지 않고 다음 단계로 분리해 둔다.
+
+## 2차 업데이트 (같은 날, 사용자 승인 후)
+
+사용자가 1차 체크포인트를 승인하고 "나머지들 싹다 만들어, 학습지 말고 게임처럼 느껴지게"를 요청해 추가 작업함:
+
+- 실제 코드가 쓰는 나머지 동물(토끼·여우·개구리·새) + 접시(plate) 전부 같은 클레이 스타일로 확장 — PC에서 각 동물별 화면 스크린샷 확인(previews/after_fox_friend.png, after_bird_friend.png).
+- 클릭 피드백(눌림 반응), 등장 시 팝인 애니메이션, 가이드 곰/대기 친구의 미세한 흔들림, 성공·챕터완료 카드의 팝인, 챕터 완료 시 색종이(confetti) 축하 연출을 추가했다. **상태·점수·타이머 로직은 전혀 건드리지 않았고**, 기존 `prefers-reduced-motion` 전역 규칙이 새 애니메이션도 그대로 덮는다.
+- 여전히 안 된 것: 배경(forest-world.svg) 재제작, 미구현 기능(다리·가게)용 소품, UI 단색 아이콘, 0~10 전체 수량 실측, 드래그 제스처. `asset-manifest.json`의 `notDone`에 그대로 기록되어 있다.
+

diff --git a/math-garden/assets/mission-v4/style-guide.md b/math-garden/assets/mission-v4/style-guide.md
@@ -6,7 +6,8 @@
 
 - **확정 스타일**: "cute 3D clay toy" — 부드러운 매트 재질, 파스텔 톤, 스튜디오 소프트 라이팅, 둥근 실루엣, 투명 배경.
 - 이 스타일은 `ulmoa-center-os` 저장소의 "울모아 생각놀이터" 아이콘 세트(모아의 숫자 숲과는 다른 자매 프로젝트)와 같은 계열이며, 사용자가 이번 작업에서 명시적으로 "생각놀이터 아이콘 그림체처럼" 만들어 달라고 지정했다.
-- 기존 숲 배경(`forest-world.svg`)과 다른 동물 캐릭터(`woodland-friends.svg`의 rabbit/fox/frog/bird)는 **이번 1차 작업 범위가 아니므로 변경하지 않았다.** 곰(bear)만 새 스타일로 교체했다.
+- 사용자가 1차 체크포인트(나무·도토리·바구니·곰)를 승인한 뒤 "나머지들 싹다 만들어"라고 지시해, 실제 코드에서 쓰이는 나머지 동물(rabbit/fox/frog/bird — 작업지시서의 2차 목록에 있던 squirrel은 실제 코드에 쓰이지 않아 제외)과 접시(plate)까지 전부 같은 스타일로 확장했다.
+- 숲 배경(`forest-world.svg`)은 이번에도 변경하지 않았다 — 평면 벡터 일러스트 배경 위에 글로시 3D 클레이 오브젝트가 올라가는 형태라, 색감은 부딪히지 않지만 기법 자체는 완전히 통일되지 않았다. 다음 단계로 분리해 두었다(asset-manifest.json `notDone` 참고).
 
 ## 제작 경로 (중요 — 예외 승인 기록)
 

diff --git a/math-garden/assets/mission-v4/README.md b/math-garden/assets/mission-v4/README.md
@@ -2,9 +2,13 @@
 
 작업지시서: https://docs.google.com/document/d/1lo4IqNcJKsRdCLa4_TM-Rpn5S6gTszwozmTbdlbQ20U/edit
 
-## 현재 상태: P0 "첫 네 가지" 스타일 승인 대기
+## 현재 상태: 스타일 승인 완료 → 전체 캐릭터 확장 + 게임감 개선 적용
 
-작업지시서 3절이 요구한 "우선 네 가지(나무, 도토리, 바구니, 곰)로 일관된 스타일의 첫 장면을 완성해 디자인 품질 검수를 받는다"에 따라, 이번 1차 납품은 그 네 가지(+곰의 happy 표정)로 제한했다. 나머지 동물·배경·UI 아이콘 확장은 이 스타일이 승인된 뒤 진행한다.
+1차 체크포인트(나무·도토리·바구니·곰)를 사용자가 승인했고, "나머지들 싹다 만들어 / 학습지 말고 게임처럼 느껴지게"라는 후속 지시에 따라:
+- 실제 코드에서 쓰이는 나머지 동물(rabbit/fox/frog/bird) waiting+happy, 접시(plate)까지 같은 클레이 스타일로 확장
+- 클릭 피드백, 아이들 애니메이션, 챕터 완료 시 색종이(confetti) 축하 연출 등 "게임처럼 느껴지는" 동작 추가 (상태/로직 변경 없음)
+
+남은 것(배경 재제작, 미구현 기능용 소품, UI 아이콘)은 여전히 다음 단계로 분리되어 있다 — `asset-manifest.json`의 `notDone` 참고.
 
 ## 포함된 것
 
